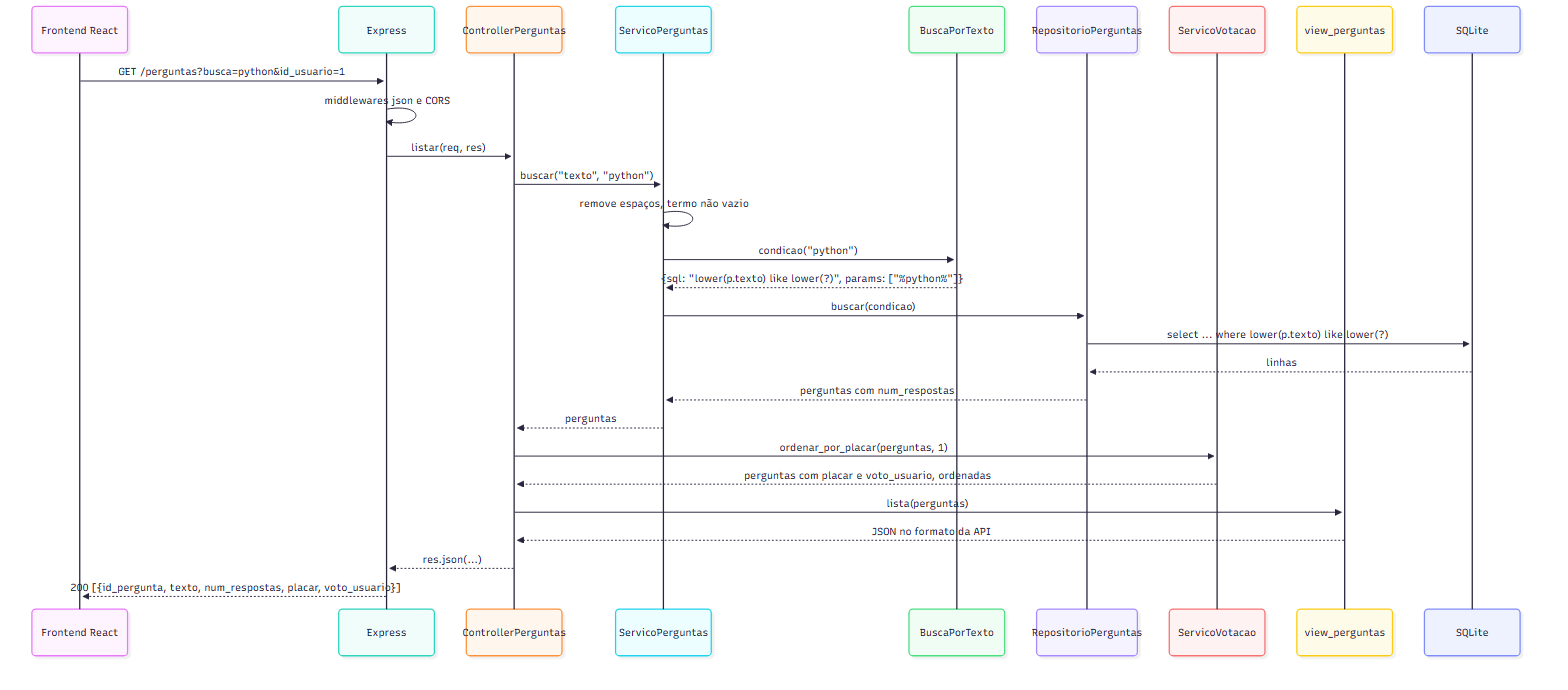
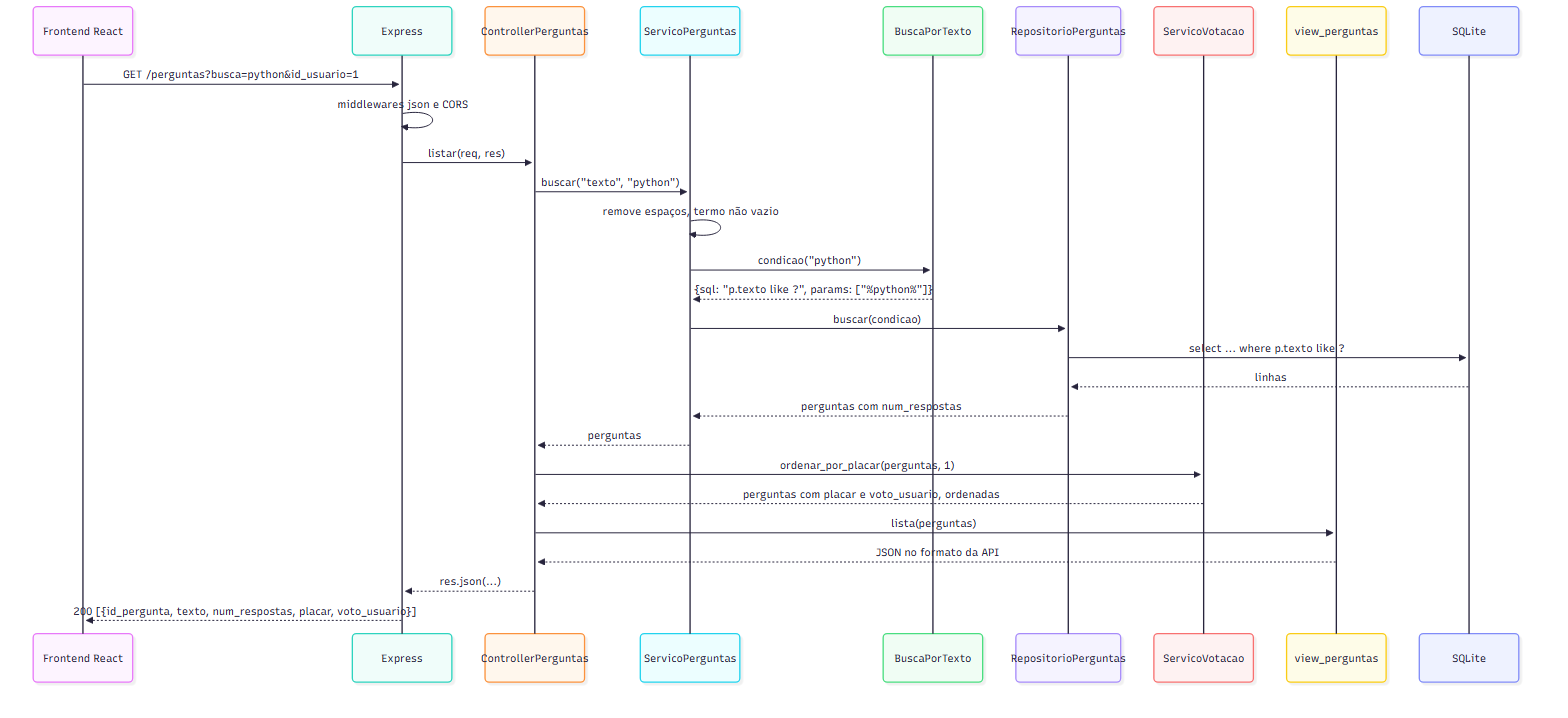
Corrige detalhes da documentação

diff --git a/DESIGN_SIMPLES.md b/DESIGN_SIMPLES.md
@@ -1,6 +1,6 @@
 # Design Simples (YAGNI) no backend do ESM Forum
 
-O enunciado cita `routes/perguntas.js` e `routes/respostas.js`, mas a versão atual do repositório não tem pasta `routes/`. As rotas de perguntas e de respostas ficam todas em `server.js`, e as funções que elas chamam ficam em `modelo.js`, com o acesso ao SQLite isolado em `bd/bd_utils.js`. A análise abaixo usa esses três arquivos, que somam cerca de 130 linhas.
+O enunciado cita `routes/perguntas.js` e `routes/respostas.js`, mas a versão atual do repositório não tem pasta `routes/`. As rotas de perguntas e de respostas ficam todas em `server.js`, e as funções que elas chamam ficam em `modelo.js`, com o acesso ao SQLite isolado em `bd/bd_utils.js`. A análise abaixo usa esses três arquivos, que somam cerca de 130 linhas, na versão original: foi feita na Parte 1, antes da implementação da votação.
 
 O princípio YAGNI (You Aren't Gonna Need It) diz que não se implementa algo antes de haver uma necessidade concreta para ele. O ESM Forum hoje atende a quatro necessidades: listar perguntas, cadastrar pergunta, ver as respostas de uma pergunta e cadastrar resposta. A pergunta que orienta a análise é se cada trecho do código serve a uma dessas quatro operações.
 

diff --git a/PROPOSTA_ARQUITETURA.md b/PROPOSTA_ARQUITETURA.md
@@ -213,7 +213,7 @@ Fonte: [proposta_fluxo_mvc.mmd](diagramas/proposta_fluxo_mvc.mmd)
 1. O usuário digita "python" no campo de busca, e o frontend envia `GET /perguntas?busca=python&id_usuario=1`.
 2. O Express aplica os middlewares (`express.json` e CORS) e entrega a requisição a `ControllerPerguntas.listar`.
 3. O controller identifica o tipo de busca (texto, porque não veio `tag`) e chama `ServicoPerguntas.buscar("texto", "python")`.
-4. O serviço remove os espaços, verifica que o termo não é vazio e pede à estratégia `BuscaPorTexto` a condição, que é `lower(p.texto) like lower(?)` com o parâmetro `%python%`.
+4. O serviço remove os espaços, verifica que o termo não é vazio e pede à estratégia `BuscaPorTexto` a condição, que é `p.texto like ?` com o parâmetro `%python%`.
 5. O serviço passa a condição a `RepositorioPerguntas.buscar`, que executa no SQLite a consulta com a contagem de respostas e devolve as perguntas encontradas.
 6. O controller passa as perguntas a `ServicoVotacao.ordenar_por_placar`, que acrescenta `placar` e `voto_usuario` e as ordena.
 7. O controller entrega a lista a `view_perguntas.lista`, que monta o JSON com os campos definidos.

diff --git a/INSTALACAO.md b/INSTALACAO.md
@@ -94,7 +94,7 @@ O primeiro comando devolve a lista de perguntas em JSON, e o terceiro devolve o 
 npm test
 ```
 
-Resultado obtido: 2 suítes e 3 testes passando. Os testes de `testes/modelo.test.js` usam o banco `bd/esmforum-teste.db` e apagam os dados dele a cada execução, portanto o arquivo aparece como modificado no `git status` depois de rodar os testes. Para descartar essa alteração, usa-se `git checkout bd/esmforum-teste.db`.
+Resultado obtido na configuração do ambiente: 2 suítes e 3 testes passando. Com a votação implementada na Parte 3, são 4 suítes e 18 testes. Os testes de `testes/modelo.test.js` usam o banco `bd/esmforum-teste.db` e apagam os dados dele a cada execução, portanto o arquivo aparece como modificado no `git status` depois de rodar os testes. Para descartar essa alteração, usa-se `git checkout bd/esmforum-teste.db`.
 
 ### 3.5 Recriar o banco
 

diff --git a/PROCESSO.md b/PROCESSO.md
@@ -60,4 +60,4 @@ O perfil de usuário e a notificação ficam por último porque dependem de algo
 
 ## 4. Uso do quadro ao longo do projeto
 
-As tarefas da disciplina (documentos das partes 1, 2 e 3) também entram no quadro como cards, com a mesma política de colunas, para que o limite de WIP valha para todo o trabalho e não só para o código. O backlog é reordenado sempre que uma nova parte do projeto é liberada, e cada card concluído referencia o commit correspondente.
+As tarefas da disciplina (documentos das partes 1, 2 e 3) também entram no quadro como cards, com a mesma política de colunas, para que o limite de WIP valha para todo o trabalho e não só para o código. O backlog é reordenado sempre que uma nova parte do projeto é liberada, e a issue de cada funcionalidade concluída recebe um comentário com os commits que a implementaram.

diff --git a/PADROES_PROPOSTOS.md b/PADROES_PROPOSTOS.md
@@ -38,8 +38,9 @@ Um critério novo, como busca por autor, é uma classe nova registrada no mapa e
 // busca/estrategias_busca.js
 class BuscaPorTexto {
   condicao(termo) {
-    // lower() nos dois lados: o LIKE do SQLite só ignora maiúsculas em ASCII
-    return { sql: 'lower(p.texto) like lower(?)', params: ['%' + termo + '%'] };
+    // O LIKE do SQLite já ignora maiúsculas em letras sem acento ("Python" e "python").
+    // Letras acentuadas ("É" e "é") exigiriam a extensão ICU ou normalizar o texto em JavaScript.
+    return { sql: 'p.texto like ?', params: ['%' + termo + '%'] };
   }
 }
 
